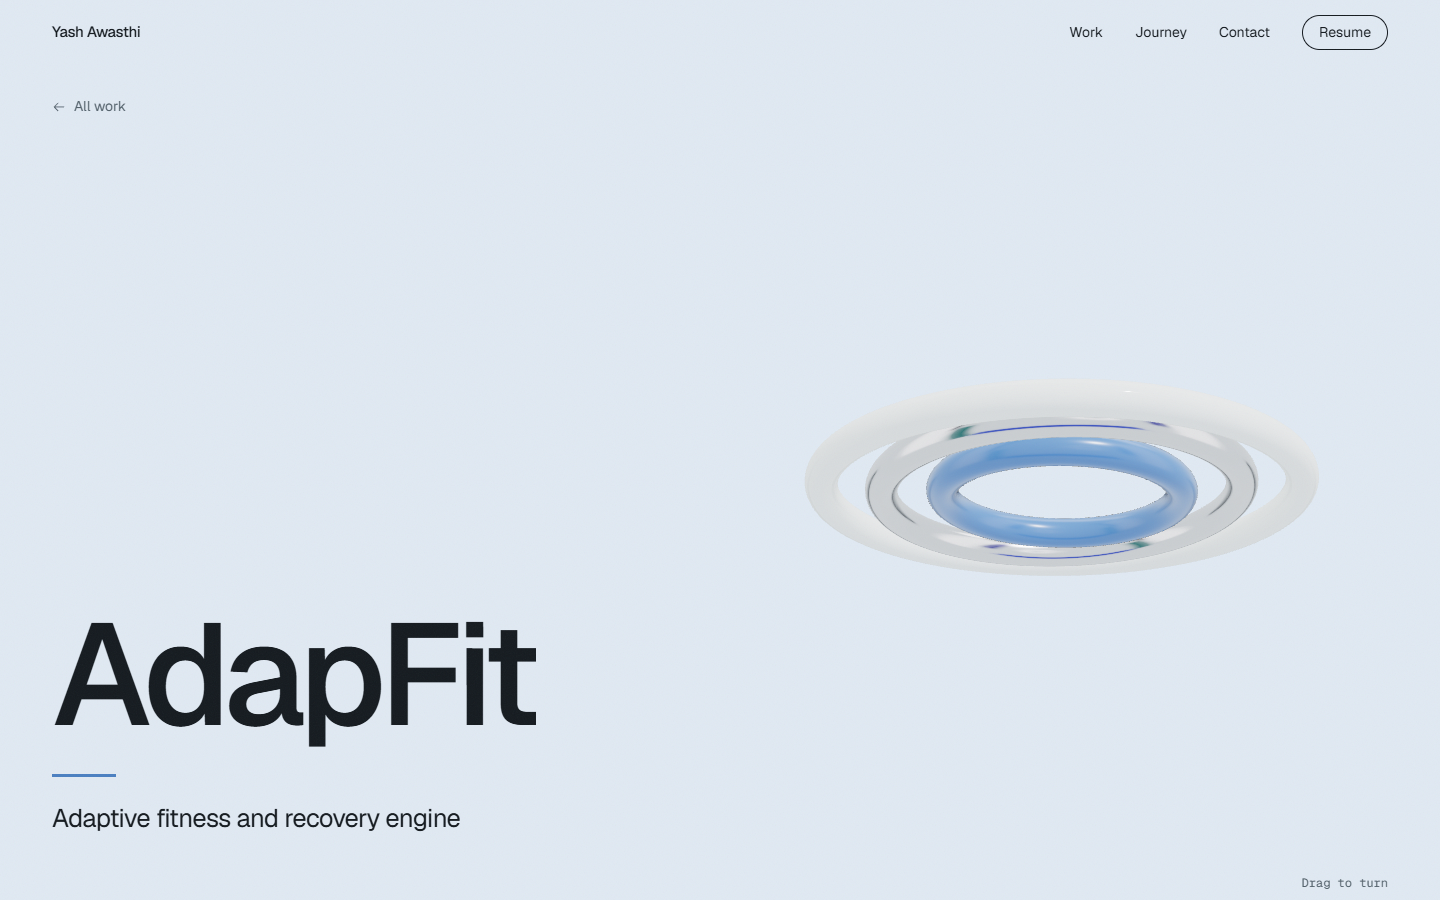
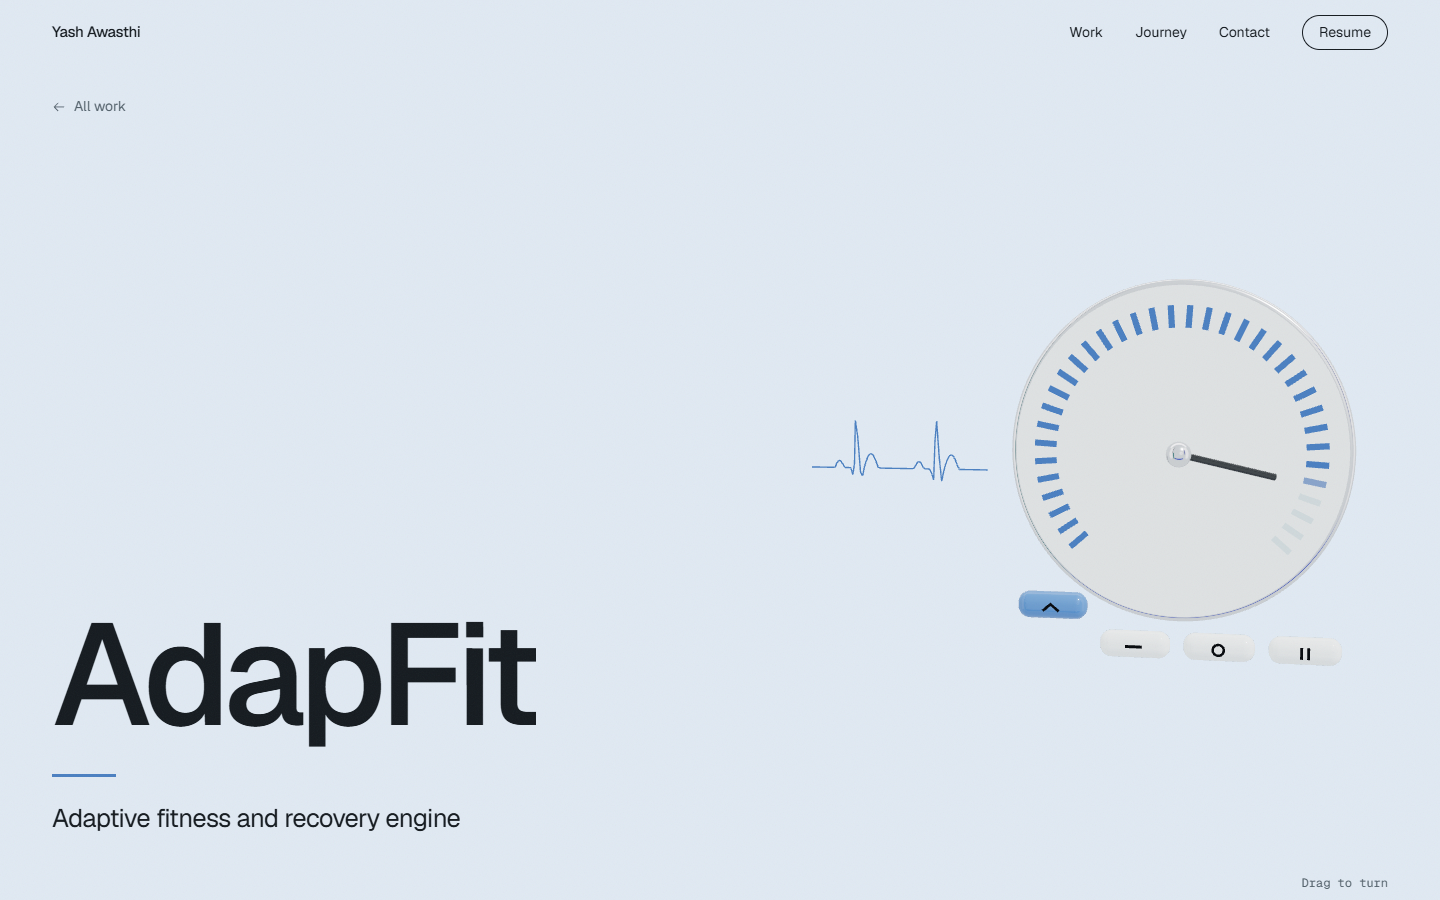
Tell the RISC-V story, document the new scenes and recapture screens
Loop nests fold into one attn instruction that the die runs. Design notes describe every scene and the anime.js stories.

diff --git a/src/three/Artifacts.jsx b/src/three/Artifacts.jsx
@@ -946,69 +946,140 @@ function trace(i, d) {
   return [-d, o];
 }
 
-// RISC-V attn: signals run in along the pins, the die lifts and turns as the instruction executes,
-// then seats back into the package.
+// RISC-V attn: four nested attention loops in plain C hang above the chip. The compiler pass
+// collapses them into one attn instruction with its four operands, the instruction drops into the
+// die, and the die seats and runs it out along the traces.
+const NESTS = 4;
+const NEST_AT = [0, 0.95, 0.4];
+const BAR = [0.62, 0.07];
+const CHIP_PINS = (() => {
+  const out = [];
+  for (let i = 0; i < 8; i++) {
+    const o = -0.84 + i * 0.24;
+    out.push([o, 1.12, 0], [o, -1.12, 0], [1.12, o, 0], [-1.12, o, 0]);
+  }
+  return out;
+})();
+
+const chipInit = () => ({ nests: Array.from({ length: NESTS }, () => ({ in: 0 })), fold: 0, drop: 0, lift: 0, seat: 0, run: 0 });
+
+function chipStory({ intro, loop }, s) {
+  intro.add(s.nests, { in: [0, 1], duration: 800, ease: OUT, delay: stagger(110) });
+  loop
+    .add(s, { fold: [0, 1], duration: 1300 }, 600)
+    .add(s, { lift: [0, 1], duration: 450, ease: OUT }, 1800)
+    .add(s, { drop: [0, 1], duration: 850 }, 2000)
+    .add(s, { seat: [0, 1], lift: 0, duration: 700 }, 2850)
+    .add(s, { run: [0, 1], duration: 1300, ease: 'linear' }, 3500)
+    .add(s, { fold: 0, duration: 1000 }, 5000)
+    .add(s, { drop: 0, seat: 0, run: 0, duration: 1 }, 5000);
+}
+
 function Chip({ still, color, delay }) {
-  const clock = useClock(delay);
+  const s = useStory(chipInit, chipStory, { delay, still, at: 0.15 });
+  const nests = useRef([]);
+  const bar = useRef();
   const die = useRef();
   const signals = useRef();
-  const pins = useMemo(() => {
-    const out = [];
-    for (let i = 0; i < 8; i++) {
-      const o = -0.84 + i * 0.24;
-      out.push([o, 1.12, 0], [o, -1.12, 0], [1.12, o, 0], [-1.12, o, 0]);
+  useFrame(() => {
+    // Each nest is four edges; folding pulls every nest down to the instruction's own size.
+    nests.current.forEach((edges, i) => {
+      if (!edges) return;
+      const w = lerp(0.95 - i * 0.17, BAR[0] / 2, s.fold);
+      const h = lerp(0.55 - i * 0.11, BAR[1] / 2, s.fold);
+      const [top, bottom, left, right] = edges.children;
+      top.position.y = h;
+      bottom.position.y = -h;
+      left.position.x = -w;
+      right.position.x = w;
+      top.scale.x = bottom.scale.x = w * 2;
+      left.scale.y = right.scale.y = h * 2;
+      edges.position.y = NEST_AT[1] + lerp(0.8, 0, s.nests[i].in);
+      edges.visible = s.fold < 0.99;
+      edges.children.slice(4).forEach((line) => (line.visible = s.fold < 0.2));
+    });
+    if (bar.current) {
+      bar.current.position.set(NEST_AT[0], lerp(NEST_AT[1], -0.15, s.drop), lerp(NEST_AT[2], 0.25, s.drop));
+      bar.current.visible = s.fold > 0.98 && s.drop < 0.99;
     }
-    return out;
-  }, []);
-  useFrame((state) => {
-    const t = still ? 0 : clock(state);
-    const p = (t % 6) / 6;
-    const lift = easeInOut(span(p, 0.3, 0.45)) * (1 - easeOut(span(p, 0.7, 0.85)));
     if (die.current) {
-      die.current.position.z = 0.13 + lift * 0.5;
-      die.current.rotation.z = easeInOut(span(p, 0.4, 0.65)) * (Math.PI / 2);
+      die.current.position.z = 0.13 + s.lift * 0.45;
+      die.current.rotation.z = s.seat * (Math.PI / 2);
     }
-    signals.current?.children.forEach((s, i) => {
-      const k = easeInOut(span(p, 0.02 + (i >> 2) * 0.05 + (i % 4) * 0.012, 0.22 + (i >> 2) * 0.05 + (i % 4) * 0.012));
-      const [x, y] = trace(i, lerp(1.1, 0.58, k));
-      s.position.set(x, y, 0.105);
-      s.visible = !still && k > 0 && k < 1;
+    signals.current?.children.forEach((m, i) => {
+      const k = easeInOut(span(s.run, (i >> 2) * 0.12 + (i % 4) * 0.03, 0.5 + (i >> 2) * 0.12 + (i % 4) * 0.03));
+      const [x, y] = trace(i, lerp(0.58, 1.1, k));
+      m.position.set(x, y, 0.105);
+      m.visible = !still && k > 0 && k < 1;
     });
   });
   return (
-    <group rotation={[-0.9, 0, 0.5]}>
-      <RoundedBox args={[2.1, 2.1, 0.18]} radius={0.04} smoothness={4}>
-        <meshPhysicalMaterial color="#1b2127" roughness={0.45} clearcoat={0.6} />
-      </RoundedBox>
-      <group ref={die} position={[0, 0, 0.13]}>
-        <RoundedBox args={[1.1, 1.1, 0.1]} radius={0.03} smoothness={4}>
+    <group position={[0, -0.1, 0]} scale={0.92}>
+      {Array.from({ length: NESTS }, (_, i) => (
+        <group key={i} ref={(g) => (nests.current[i] = g)} position={[NEST_AT[0], NEST_AT[1], NEST_AT[2] + i * 0.04]}>
+          {[0, 1].map((e) => (
+            <mesh key={e}>
+              <boxGeometry args={[1, 0.022, 0.02]} />
+              <meshBasicMaterial color={i === NESTS - 1 ? color : '#5c6b78'} toneMapped={false} />
+            </mesh>
+          ))}
+          {[0, 1].map((e) => (
+            <mesh key={e + 2}>
+              <boxGeometry args={[0.022, 1, 0.02]} />
+              <meshBasicMaterial color={i === NESTS - 1 ? color : '#5c6b78'} toneMapped={false} />
+            </mesh>
+          ))}
+          <mesh position={[-0.68 + i * 0.17, 0.44 - i * 0.11, 0]}>
+            <planeGeometry args={[0.22, 0.03]} />
+            <meshBasicMaterial color="#8fb3c9" toneMapped={false} />
+          </mesh>
+        </group>
+      ))}
+      <group ref={bar}>
+        <RoundedBox args={[BAR[0], BAR[1] * 2.2, 0.08]} radius={0.03} smoothness={3}>
           <Accent color={color} />
         </RoundedBox>
+        {[0, 1, 2, 3].map((o) => (
+          <mesh key={o} position={[-0.21 + o * 0.14, 0, 0.045]}>
+            <circleGeometry args={[0.028, 16]} />
+            <meshBasicMaterial color="#eef3f3" toneMapped={false} />
+          </mesh>
+        ))}
       </group>
-      <Instances limit={pins.length}>
-        <boxGeometry args={[0.1, 0.1, 0.06]} />
-        <Chrome />
-        {pins.map((p, i) => (
-          <Instance key={i} position={p} scale={[i % 4 < 2 ? 1 : 1.6, i % 4 < 2 ? 1.6 : 1, 1]} />
-        ))}
-      </Instances>
-      {Array.from({ length: 16 }, (_, i) => {
-        const [x, y] = trace(i, 0.84);
-        const along = i % 4 < 2;
-        return (
-          <mesh key={i} position={[x, y, 0.092]}>
-            <boxGeometry args={along ? [0.03, 0.54, 0.004] : [0.54, 0.03, 0.004]} />
-            <meshBasicMaterial color="#5c6b78" />
-          </mesh>
-        );
-      })}
-      <group ref={signals}>
-        {Array.from({ length: 16 }, (_, i) => (
-          <mesh key={i}>
-            <boxGeometry args={[0.07, 0.07, 0.03]} />
-            <meshBasicMaterial color={color} toneMapped={false} />
-          </mesh>
-        ))}
+      <group rotation={[-1.05, 0, 0.5]} position={[0, -0.55, 0]} scale={0.75}>
+        <RoundedBox args={[2.1, 2.1, 0.18]} radius={0.04} smoothness={4}>
+          <meshPhysicalMaterial color="#1b2127" roughness={0.45} clearcoat={0.6} />
+        </RoundedBox>
+        <group ref={die} position={[0, 0, 0.13]}>
+          <RoundedBox args={[1.1, 1.1, 0.1]} radius={0.03} smoothness={4}>
+            <Accent color={color} />
+          </RoundedBox>
+        </group>
+        <Instances limit={CHIP_PINS.length}>
+          <boxGeometry args={[0.1, 0.1, 0.06]} />
+          <Chrome />
+          {CHIP_PINS.map((p, i) => (
+            <Instance key={i} position={p} scale={[i % 4 < 2 ? 1 : 1.6, i % 4 < 2 ? 1.6 : 1, 1]} />
+          ))}
+        </Instances>
+        {Array.from({ length: 16 }, (_, i) => {
+          const [x, y] = trace(i, 0.84);
+          const along = i % 4 < 2;
+          return (
+            <mesh key={i} position={[x, y, 0.092]}>
+              <boxGeometry args={along ? [0.03, 0.54, 0.004] : [0.54, 0.03, 0.004]} />
+              <meshBasicMaterial color="#5c6b78" />
+            </mesh>
+          );
+        })}
+        <group ref={signals}>
+          {Array.from({ length: 16 }, (_, i) => (
+            <mesh key={i}>
+              <boxGeometry args={[0.07, 0.07, 0.03]} />
+              <meshBasicMaterial color={color} toneMapped={false} />
+            </mesh>
+          ))}
+        </group>
       </group>
     </group>
   );

diff --git a/design/DESIGN.md b/design/DESIGN.md
@@ -66,7 +66,7 @@ Interactive controls are pills. Media, panels and grids are square. Hairlines in
 | Pinned scroll with 3D path | Journey | One milestone at a time, path fills in cobalt |
 | Curtain between routes | Page change | Ink rises on exit; the destination's colour lifts off on enter |
 | Section wash | Background | Each section carries its own cool pastel |
-| Hero parallax | Hero | Name drifts up and fades, the 3D form sinks and shrinks |
+| Hero parallax | Hero | Name drifts up and fades, the orrery sinks and shrinks |
 | Scroll-driven stack band | Below statement | Two rows slide opposite ways with the scroll |
 | Progress line | Top edge | Teal to indigo line tracking page scroll |
 | Screenshot zoom | Project page | Grows from 88% as it reaches centre |
@@ -86,16 +86,20 @@ Each object loops a short story of what the project does. Entrances use ease-out
 (`src/three/ease.js`, checked by `node src/three/ease.check.mjs`). Nothing appears by scaling from
 zero or fading; things move into place. On project pages the entrance waits 0.9 s for the wipe.
 
+Stories are anime.js timelines over a plain object that the frame loop reads (`useStory` in
+`src/three/story.js`): an entrance plays once, then the story loops. A frozen copy, used for the
+orrery's miniatures under reduced motion, holds the loop at one chosen moment.
+
 | Project | Object | Motion |
 | --- | --- | --- |
-| Hero | Liquid chrome form, three orbiting spheres | Surface ripples, spheres orbit, tilts to the pointer |
-| Nexus | Faceted core, six model nodes on a ring | Nodes slide out along spokes; pulses go out and back; a debate bead circles |
-| WorldFin | Clay globe dotted with events, chrome ring | Ring swings into orbit; event pillars rise and settle as the globe turns |
-| AdapFit | Three rings | Drift apart, then settle concentric |
-| PocketDesk | Laptop (shared with Key Router) and phone | Lid opens on its hinge; phone turns; commands arc to the screen; terminal lines type out |
-| Case Files | Stack of files | Fans open, top file slides out, closes |
-| Ping | Two phones | Turn toward each other, the card arcs across, both screens confirm, turn back |
-| RISC-V attn | Chip with traces | Signals run in along traces, the die lifts, turns and seats |
+| Hero | Orrery: a nucleus of the eight project colours, each project's object in miniature on a tilted orbit | Orbits turn; pointing at a project stops them, pulls its colour out of the nucleus and names it on the core; clicking opens it |
+| Nexus | Round table, five differently shaped models | A question drops in and splits to every seat; each writes a card; cards turn face down and pass one seat on; debate beads cross the table; cards gather into a verdict gem |
+| WorldFin | Clay globe, chrome orbit with a price line | Headline cards land where the event happened; an arrow rises out for invest or points in for pull out; the price line traces the orbit |
+| AdapFit | HRV trace, recovery gauge, four decision pills | The trace runs into the gauge, the needle settles on that morning's score and its decision lifts; four mornings, one per decision |
+| PocketDesk | Laptop (shared with Key Router), phone, QUIC relay | Commands go through the relay to the terminal, which types; a diff card comes back and is approved; desktop frames stream to the phone, whose screen becomes the desktop |
+| Case Files | Three case files with their own seals, magnifier | An answer slip leaves one file for another; the magnifier reads its seal and a thread runs back to the file it came from |
+| Ping | Two phones, a hand above each | Both hands close into the same V and lock; the six-digit check lights on both screens; the phones turn and the card crosses |
+| RISC-V attn | Four nested loop frames, chip | The loops fold into one attn bar with four operands, which drops into the lifted die; the die seats and signals run out along the traces |
 | Key Router | Laptop running Claude Code, edge cloud, provider stack | Lid opens on a Claude Code session; the gateway key rises from it; requests fly to the cloud in the key's colour and on to the provider in chrome after the swap; replies stream back as terminal lines while the spinner turns; the cloud's TTL dial drains and the key turns edge-on and drops away |
 
 On the home page, switching projects is a turntable: the current object turns edge-on and the

diff --git a/README.md b/README.md
@@ -1,7 +1,7 @@
 # Portfolio
 
 Personal site for Yash Vaibhav Awasthi. React 19, Vite, Tailwind CSS 4, React Three Fiber and drei
-for the 3D layer, Motion for transitions and Lenis for scrolling.
+for the 3D layer, anime.js for the 3D stories, Motion for transitions and Lenis for scrolling.
 
 ## Develop
 
